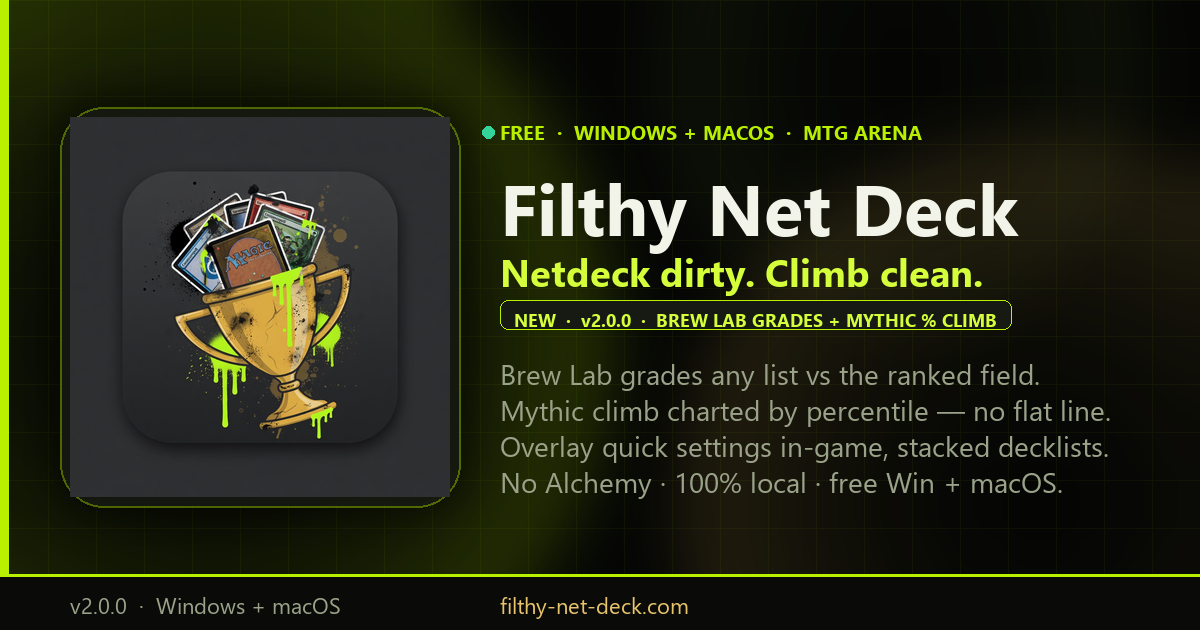
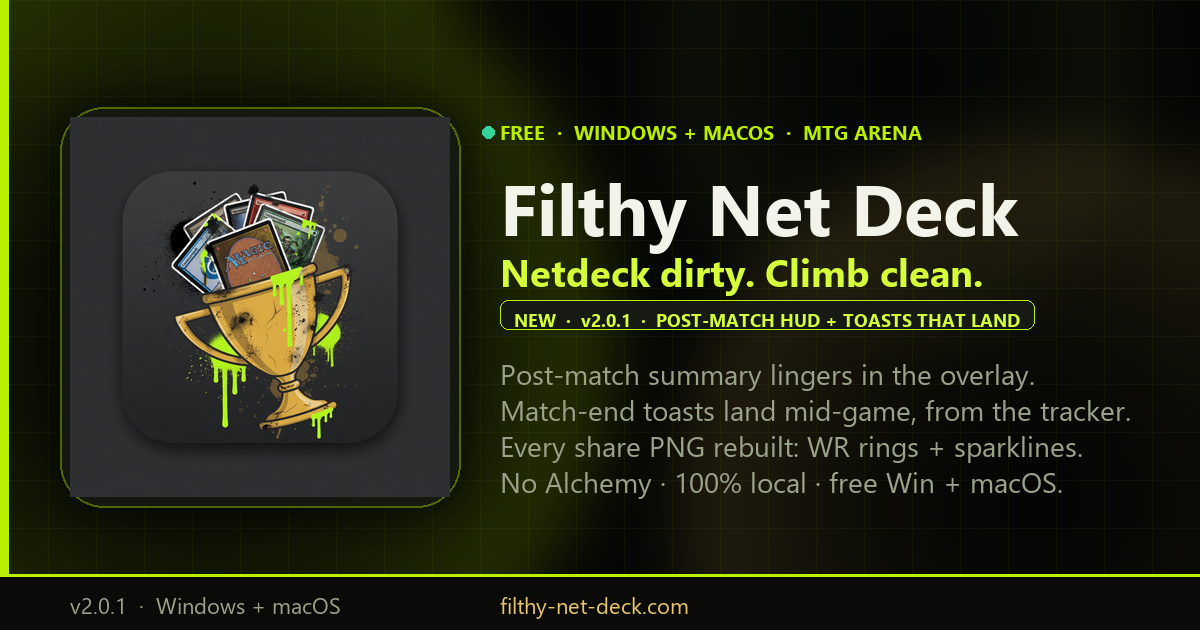
Release v2.0.1: post-match HUD, toasts that land, premium share cards
- Bump: package.json, src/version.ts (WHATS_NEW), Cargo.toml/lock, tauri.conf.json
- Signed Windows installer + .sig in website/downloads (2.0.0 exe pruned;
  2.0.0 dmg stays until the v2.0.1 mac roll)
- updater/latest.json + both soft version.json channels -> 2.0.1
- Site: title/description/OG/Twitter metas, New-in-v2.0.1 bento, download
  buttons, og-image regenerated with ?v=2.0.1 cache-bust
- macOS dmg links held at 2.0.0 until tag CI rolls the universal dmg

Changed region(s): [[0.4008, 0.573, 0.925, 0.7238], [0.555, 0.4825, 0.8633, 0.5429]]

diff --git a/website/index.html b/website/index.html
@@ -3,9 +3,9 @@
   <head>
     <meta charset="UTF-8" />
     <meta name="viewport" content="width=device-width, initial-scale=1.0" />
-    <title>Filthy Net Deck v2.0.0 — Brew Lab grades, Mythic % climb</title>
+    <title>Filthy Net Deck v2.0.1 — Post-match HUD, toasts that land</title>
     <meta
-      name="description" content="Free MTG Arena companion. Mulligan rates, first-land analytics, multi-source meta (MTGO + magic.gg), local coach chips. Windows &amp; macOS."
+      name="description" content="Free MTG Arena companion. Post-match overlay summary, toasts that land mid-game, premium share cards, multi-source meta. Windows &amp; macOS."
     />
     <meta name="theme-color" content="#070806" />
     <meta name="color-scheme" content="dark" />
@@ -18,33 +18,33 @@
     <meta property="og:locale" content="en_US" />
     <meta property="og:type" content="website" />
     <meta property="og:url" content="https://filthy-net-deck.com/" />
-    <meta property="og:title" content="Filthy Net Deck v2.0.0 — Brew Lab grades, Mythic % climb" />
+    <meta property="og:title" content="Filthy Net Deck v2.0.1 — Post-match HUD, toasts that land" />
     <meta
       property="og:description"
-      content="Brew Lab grades any list vs today's ranked field. Mythic climb charted by percentile. Overlay quick settings in-game. Free, local, Windows + macOS."
+      content="Post-match summary lingers in the overlay: season form, recent W/L + rank path. Match-end toasts that land mid-game. Premium share cards. Free, local, Windows + macOS."
     />
-    <meta property="og:image" content="https://filthy-net-deck.com/assets/og-image.png?v=2.0.0" />
-    <meta property="og:image:secure_url" content="https://filthy-net-deck.com/assets/og-image.png?v=2.0.0" />
+    <meta property="og:image" content="https://filthy-net-deck.com/assets/og-image.png?v=2.0.1" />
+    <meta property="og:image:secure_url" content="https://filthy-net-deck.com/assets/og-image.png?v=2.0.1" />
     <meta property="og:image:type" content="image/png" />
     <meta property="og:image:width" content="1200" />
     <meta property="og:image:height" content="630" />
     <meta
       property="og:image:alt"
-      content="Filthy Net Deck v2.0.0 — Brew Lab grades, Mythic % climb. Free Windows + macOS"
+      content="Filthy Net Deck v2.0.1 — Post-match HUD, toasts that land. Free Windows + macOS"
     />
 
     <!-- X / Twitter Card -->
     <meta name="twitter:card" content="summary_large_image" />
     <meta name="twitter:url" content="https://filthy-net-deck.com/" />
-    <meta name="twitter:title" content="Filthy Net Deck v2.0.0 — Brew Lab grades, Mythic % climb" />
+    <meta name="twitter:title" content="Filthy Net Deck v2.0.1 — Post-match HUD, toasts that land" />
     <meta
       name="twitter:description"
-      content="Brew Lab letter grades, Mythic % climb curve, in-game overlay settings. Free MTG Arena companion for Windows + macOS."
+      content="Post-match overlay summary (form + rank path), toasts that land mid-game, premium share PNGs. Free MTG Arena companion for Windows + macOS."
     />
-    <meta name="twitter:image" content="https://filthy-net-deck.com/assets/og-image.png?v=2.0.0" />
+    <meta name="twitter:image" content="https://filthy-net-deck.com/assets/og-image.png?v=2.0.1" />
     <meta
       name="twitter:image:alt"
-      content="Filthy Net Deck v2.0.0 — Brew Lab grades, Mythic % climb. Free Windows + macOS"
+      content="Filthy Net Deck v2.0.1 — Post-match HUD, toasts that land. Free Windows + macOS"
     />
 
     <link rel="icon" type="image/png" href="/assets/favicon.png" />
@@ -98,11 +98,11 @@
           <div class="hero-actions">
             <a
               class="btn btn-primary"
-              href="downloads/Filthy-Net-Deck-Setup-2.0.0.exe"
+              href="downloads/Filthy-Net-Deck-Setup-2.0.1.exe"
               download
             >
               Download for Windows
-              <span class="btn-meta">v2.0.0 · Windows installer</span>
+              <span class="btn-meta">v2.0.1 · Windows installer</span>
             </a>
             <a
               class="btn btn-ghost"
@@ -146,7 +146,7 @@
                   <img src="assets/app-icon.png" alt="" />
                   <div>
                     <strong>Filthy Net Deck</strong>
-                    <small>Standard &amp; Pioneer · v2.0.0</small>
+                    <small>Standard &amp; Pioneer · v2.0.1</small>
                   </div>
                 </div>
                 <button class="mock-nav" type="button">
@@ -258,33 +258,33 @@
         <div class="feature-bento">
           <article class="fb fb-wide fb-stats reveal">
             <div class="fb-copy">
-              <p class="fb-kicker">New in v2.0</p>
-              <h3>Brew Lab grades your list. Honestly.</h3>
+              <p class="fb-kicker">New in v2.0.1</p>
+              <h3>The match ends. The story lingers.</h3>
               <p>
-                Brew Lab is now a full page: pick any tracked deck or <em>paste any list</em>
-                (Arena export, MTGO text) and get a letter grade against today’s ranked field —
-                mana base, curve, interaction density, staple alignment, sideboard readiness.
-                Pure arithmetic on real ranked lists; no AI, no invented cards. Plus: your
-                <em>Mythic climb finally curves</em> (percentile &amp; leaderboard place charted),
-                Arena-style stacked decklists, an in-game overlay ⚙ pill, a first-run tour, and a
-                Settings page full of new toggles.
+                A <em>post-match summary</em> now lingers in the overlay after each game —
+                result, season record, recent W/L form and your <em>rank path sparkline</em>,
+                toggleable in Settings. Match-end toasts fire from the tracker itself, so they
+                <em>land while you’re in Arena</em> or the app sits in the tray. And every
+                shareable PNG — recaps, matchups, deck cards — was rebuilt premium: brand
+                frames, WR rings, mana pips, sparklines. Still fresh from v2.0: Brew Lab
+                grades and the Mythic % climb curve.
               </p>
             </div>
             <div class="fb-visual fb-stats-visual" aria-hidden="true">
               <div class="stats-mock-head">
-                <strong>Clinic · Golgari Midrange</strong>
-                <span class="stats-pill">Grade B+ · 84/100</span>
+                <strong>Post-match · Izzet Cauldron</strong>
+                <span class="stats-pill">Victory · Platinum 2</span>
               </div>
               <div class="stats-mock-rate">
-                <em>vs 8 ranked Standard Bo1 lists</em>
-                <b>B+</b>
-                <span>shape · curve · staples · sideboard</span>
+                <em>Season 12–8 · session 3–1</em>
+                <b>▲</b>
+                <span>rank path · recent form</span>
               </div>
               <div class="stats-mock-row">
-                <span>Mythic 87% → 98% charted</span><i style="--w: 92%"></i><b>live</b>
+                <span>Overlay summary lingers ~12s</span><i style="--w: 80%"></i><b>new</b>
               </div>
               <div class="stats-mock-row">
-                <span>Overlay ⚙ pill · no alt-tab</span><i style="--w: 70%"></i><b>in-game</b>
+                <span>Toasts from the tracker itself</span><i style="--w: 90%"></i><b>fixed</b>
               </div>
             </div>
           </article>
@@ -498,11 +498,11 @@
           <div class="download-row">
             <a
               class="btn btn-primary btn-lg"
-              href="downloads/Filthy-Net-Deck-Setup-2.0.0.exe"
+              href="downloads/Filthy-Net-Deck-Setup-2.0.1.exe"
               download
             >
               Download for Windows
-              <span class="btn-meta">v2.0.0 · NSIS · current user install</span>
+              <span class="btn-meta">v2.0.1 · NSIS · current user install</span>
             </a>
             <a
               class="btn btn-ghost btn-lg"

diff --git a/src/version.ts b/src/version.ts
@@ -1,4 +1,4 @@
-export const APP_VERSION = "2.0.0";
+export const APP_VERSION = "2.0.1";
 export const APP_NAME = "Filthy Net Deck";
 export const APP_SLUG = "filthy-net-deck";
 
@@ -7,9 +7,7 @@ export const APP_SLUG = "filthy-net-deck";
  * installs (see WhatsNew in StatusBanners). Update alongside APP_VERSION.
  */
 export const WHATS_NEW: string[] = [
-  "Brew Lab is now its own page — grade ANY list (tracked or pasted) vs today's ranked field",
-  "Mythic climb finally curves: percentile / leaderboard place charted, no more flat line",
-  "Decklists in My Stats: compact Arena-style stacked view (switch Stacked / List / Text)",
-  "Overlay ⚙ pill: opacity + toggles in-game, no alt-tab; minimized bar shows record + clock",
-  "New Help & tour, plus a Settings Interface card — launch page, climb order, and more"
+  "Post-match summary in the overlay: season form, recent W/L + rank path lingers ~12s after each game (Settings → In-game overlay)",
+  "Match-end toasts now fire from the tracker itself — they land while you're in Arena or the app sits in the tray",
+  "Share cards rebuilt premium: brand frames, WR rings, mana pips, sparklines on every shareable PNG"
 ];

diff --git a/website/assets/_gen_og.py b/website/assets/_gen_og.py
@@ -130,7 +130,7 @@ def main() -> None:
     draw.text((tx, ty + 128), "Netdeck dirty. Climb clean.", font=tag_font, fill=ACID_BRIGHT)
 
     # Feature callout badge — bump with each marketed release
-    badge_text = f"NEW  {mid}  v2.0.0  {mid}  BREW LAB GRADES + MYTHIC % CLIMB"
+    badge_text = f"NEW  {mid}  v2.0.1  {mid}  POST-MATCH HUD + TOASTS THAT LAND"
     badge_pad_x, badge_pad_y = 14, 8
     bb = draw.textbbox((0, 0), badge_text, font=badge_font)
     bw, bh = bb[2] - bb[0], bb[3] - bb[1]
@@ -145,9 +145,9 @@ def main() -> None:
     draw.text((bx + badge_pad_x, by + badge_pad_y - 1), badge_text, font=badge_font, fill=ACID_BRIGHT)
 
     lines = [
-        "Brew Lab grades any list vs the ranked field.",
-        "Mythic climb charted by percentile — no flat line.",
-        "Overlay quick settings in-game, stacked decklists.",
+        "Post-match summary lingers in the overlay.",
+        "Match-end toasts land mid-game, from the tracker.",
+        "Every share PNG rebuilt: WR rings + sparklines.",
         f"No Alchemy {mid} 100% local {mid} free Win + macOS.",
     ]
     dy = ty + 236
@@ -158,7 +158,7 @@ def main() -> None:
     # Bottom bar
     draw.rectangle([0, H - 56, W, H], fill=(10, 11, 8, 245))
     draw.rectangle([0, H - 56, W, H - 54], fill=(*ACID, 200))
-    draw.text((70, H - 40), "v2.0.0  ·  Windows + macOS", font=small_font, fill=MUTED)
+    draw.text((70, H - 40), "v2.0.1  ·  Windows + macOS", font=small_font, fill=MUTED)
     draw.text((tx, H - 40), "filthy-net-deck.com", font=small_font, fill=GOLD_LIGHT)
 
     final = img.convert("RGB")